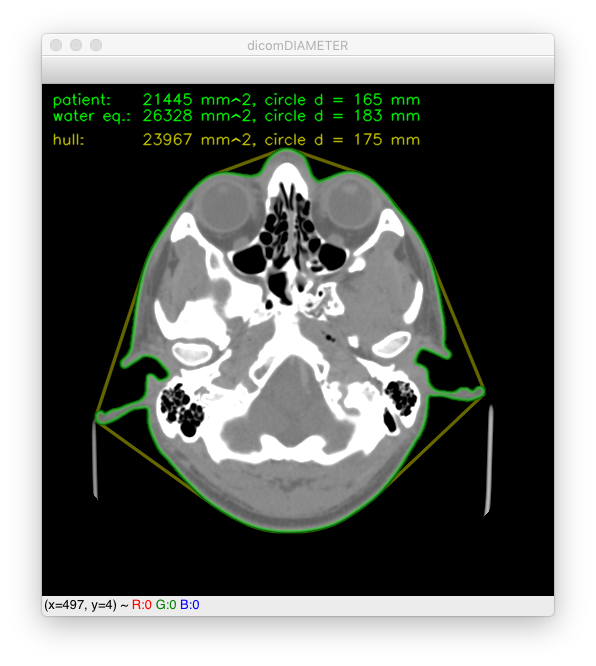
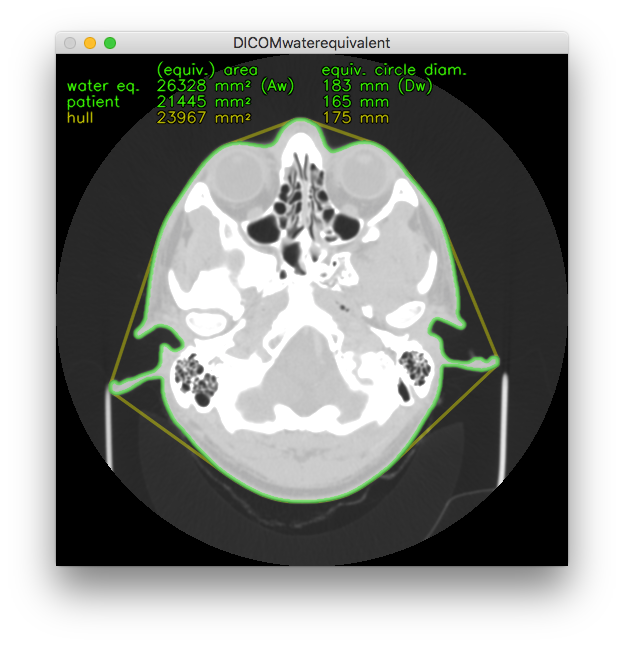
new image text overlay layout

diff --git a/DICOMwaterequivalent.py b/DICOMwaterequivalent.py
@@ -10,30 +10,7 @@
 #     calculating patient size and size-specific dose estimates (SSDE) in CT: The Report of
 #     AAPM Task Group 220. AAPM report. 2014 Sep;2014:6.
 #
-# Requirements:
-# cv2, numpy, pydicom (pip3 install opencv-python numpy pydicom)
-#
-# Usage:
-# >>> import DICOMwaterequivalent
-# >>> DICOMwaterequivalent(filename, threshold, window)
-#        filename:  DICOM file,
-#        threshold: ROI contour threshold level,
-#        window:    Optional, view window for output image, as tuple (ww,wl). No image will
-#                   be outputted if omitted.
-#
-#        example: DICOMwaterequivalent('in.dcm', -350, (1000,40))
-#
-# Returns:
-# Tuple containing:
-#   water equivalent area (Aw) in mm² (float),
-#   water equivalent diameter (Dw) in mm (float),
-#   ROI area in mm² (float),
-#   ROI equivalent circle diameter in mm (a circle with ROI area) (float),
-#   ROI hull area in mm² (float),
-#   ROI hull equivalent circle diameter in mm (float),
-#   result image displaying ROI and ROI hull contours (numpy array).
-#
-#   example: (24740.231323242188, 177.48307205659782, 27518.49097592727, 187.18341518945613, 25731.055450439453, 181.0022025481258, array([[[0, 0, 0], ... ]]], dtype=uint8)) )
+# Requirements and Usage: see README.md or https://github.com/cwverhey/DICOMwaterequivalent
 #
 # Copyright:
 # 2018 Caspar Verhey (caspar@verhey.net), MIT License (see LICENSE)
@@ -104,21 +81,52 @@ def DICOMwaterequivalent(dicom_filename, threshold, window = False):
         cv2.drawContours(overlay_img, [contour], -1, (0,255,0), 2, cv2.LINE_AA)
         cv2.addWeighted(overlay_img, 0.40, view_img, 1 - 0.40, 0, view_img)
         
-        # add text
-        cv2.putText(view_img, "patient:", (10,20), cv2.FONT_HERSHEY_SIMPLEX, 0.5, (0,0,0), 2, cv2.LINE_AA)
-        cv2.putText(view_img, "patient:", (10,20), cv2.FONT_HERSHEY_SIMPLEX, 0.5, (0,255,0), 1, cv2.LINE_AA)
-        cv2.putText(view_img, "{:.0f} mm^2, circle d = {:.0f} mm".format(area,equiv_circle_diam), (100,20), cv2.FONT_HERSHEY_SIMPLEX, 0.5, (0,0,0), 2, cv2.LINE_AA)
-        cv2.putText(view_img, "{:.0f} mm^2, circle d = {:.0f} mm".format(area,equiv_circle_diam), (100,20), cv2.FONT_HERSHEY_SIMPLEX, 0.5, (0,255,0), 1, cv2.LINE_AA)
-
-        cv2.putText(view_img, "water eq.:", (10,36), cv2.FONT_HERSHEY_SIMPLEX, 0.5, (0,0,0), 2, cv2.LINE_AA)
-        cv2.putText(view_img, "water eq.:", (10,36), cv2.FONT_HERSHEY_SIMPLEX, 0.5, (0,255,0), 1, cv2.LINE_AA)
-        cv2.putText(view_img, "{:.0f} mm^2, circle d = {:.0f} mm".format(water_equiv_area, water_equiv_circle_diam), (100,36), cv2.FONT_HERSHEY_SIMPLEX, 0.5, (0,0,0), 2, cv2.LINE_AA)
-        cv2.putText(view_img, "{:.0f} mm^2, circle d = {:.0f} mm".format(water_equiv_area, water_equiv_circle_diam), (100,36), cv2.FONT_HERSHEY_SIMPLEX, 0.5, (0,255,0), 1, cv2.LINE_AA)
-
-        cv2.putText(view_img, "hull:", (10,60), cv2.FONT_HERSHEY_SIMPLEX, 0.5, (0,0,0), 2, cv2.LINE_AA)
-        cv2.putText(view_img, "hull:", (10,60), cv2.FONT_HERSHEY_SIMPLEX, 0.5, (0,200,200), 1, cv2.LINE_AA)
-        cv2.putText(view_img, "{:.0f} mm^2, circle d = {:.0f} mm".format(hullarea, hullequiv), (100,60), cv2.FONT_HERSHEY_SIMPLEX, 0.5, (0,0,0), 2, cv2.LINE_AA)
-        cv2.putText(view_img, "{:.0f} mm^2, circle d = {:.0f} mm".format(hullarea, hullequiv), (100,60), cv2.FONT_HERSHEY_SIMPLEX, 0.5, (0,200,200), 1, cv2.LINE_AA)
+        # add text: first draw shade, then draw text over it
+        cv2.putText(view_img, "(equiv.) area", (100,20), cv2.FONT_HERSHEY_SIMPLEX, 0.5, (0,0,0), 2, cv2.LINE_AA)
+        cv2.putText(view_img, "(equiv.) area", (100,20), cv2.FONT_HERSHEY_SIMPLEX, 0.5, (0,255,0), 1, cv2.LINE_AA)
+        
+        cv2.putText(view_img, "equiv. circle diam.", (265,20), cv2.FONT_HERSHEY_SIMPLEX, 0.5, (0,0,0), 2, cv2.LINE_AA)
+        cv2.putText(view_img, "equiv. circle diam.", (265,20), cv2.FONT_HERSHEY_SIMPLEX, 0.5, (0,255,0), 1, cv2.LINE_AA)
+        
+        
+        cv2.putText(view_img, "water eq.", (10,36), cv2.FONT_HERSHEY_SIMPLEX, 0.5, (0,0,0), 2, cv2.LINE_AA)
+        cv2.putText(view_img, "water eq.", (10,36), cv2.FONT_HERSHEY_SIMPLEX, 0.5, (0,255,0), 1, cv2.LINE_AA)
+        
+        cv2.putText(view_img, "{:.0f} mm  (Aw)".format(water_equiv_area), (100,36), cv2.FONT_HERSHEY_SIMPLEX, 0.5, (0,0,0), 2, cv2.LINE_AA)
+        cv2.putText(view_img, "{:.0f} mm  (Aw)".format(water_equiv_area), (100,36), cv2.FONT_HERSHEY_SIMPLEX, 0.5, (0,255,0), 1, cv2.LINE_AA)
+        
+        cv2.putText(view_img, "2", (189,32), cv2.FONT_HERSHEY_SIMPLEX, 0.25, (0,0,0), 2, cv2.LINE_AA)
+        cv2.putText(view_img, "2", (189,32), cv2.FONT_HERSHEY_SIMPLEX, 0.25, (0,255,0), 1, cv2.LINE_AA)
+        
+        cv2.putText(view_img, "{:.0f} mm (Dw)".format(water_equiv_circle_diam), (265,36), cv2.FONT_HERSHEY_SIMPLEX, 0.5, (0,0,0), 2, cv2.LINE_AA)
+        cv2.putText(view_img, "{:.0f} mm (Dw)".format(water_equiv_circle_diam), (265,36), cv2.FONT_HERSHEY_SIMPLEX, 0.5, (0,255,0), 1, cv2.LINE_AA)
+        
+        
+        cv2.putText(view_img, "patient", (10,52), cv2.FONT_HERSHEY_SIMPLEX, 0.5, (0,0,0), 2, cv2.LINE_AA)
+        cv2.putText(view_img, "patient", (10,52), cv2.FONT_HERSHEY_SIMPLEX, 0.5, (0,255,0), 1, cv2.LINE_AA)
+        
+        cv2.putText(view_img, "{:.0f} mm".format(area), (100,52), cv2.FONT_HERSHEY_SIMPLEX, 0.5, (0,0,0), 2, cv2.LINE_AA)
+        cv2.putText(view_img, "{:.0f} mm".format(area), (100,52), cv2.FONT_HERSHEY_SIMPLEX, 0.5, (0,255,0), 1, cv2.LINE_AA)
+        
+        cv2.putText(view_img, "2", (189,49), cv2.FONT_HERSHEY_SIMPLEX, 0.25, (0,0,0), 2, cv2.LINE_AA)
+        cv2.putText(view_img, "2", (189,49), cv2.FONT_HERSHEY_SIMPLEX, 0.25, (0,255,0), 1, cv2.LINE_AA)
+        
+        cv2.putText(view_img, "{:.0f} mm".format(equiv_circle_diam), (265,52), cv2.FONT_HERSHEY_SIMPLEX, 0.5, (0,0,0), 2, cv2.LINE_AA)
+        cv2.putText(view_img, "{:.0f} mm".format(equiv_circle_diam), (265,52), cv2.FONT_HERSHEY_SIMPLEX, 0.5, (0,255,0), 1, cv2.LINE_AA)
+        
+        
+        cv2.putText(view_img, "hull", (10,68), cv2.FONT_HERSHEY_SIMPLEX, 0.5, (0,0,0), 2, cv2.LINE_AA)
+        cv2.putText(view_img, "hull", (10,68), cv2.FONT_HERSHEY_SIMPLEX, 0.5, (0,200,200), 1, cv2.LINE_AA)
+        
+        cv2.putText(view_img, "{:.0f} mm".format(hullarea), (100,68), cv2.FONT_HERSHEY_SIMPLEX, 0.5, (0,0,0), 2, cv2.LINE_AA)
+        cv2.putText(view_img, "{:.0f} mm".format(hullarea), (100,68), cv2.FONT_HERSHEY_SIMPLEX, 0.5, (0,200,200), 1, cv2.LINE_AA)
+        
+        cv2.putText(view_img, "2", (189,65), cv2.FONT_HERSHEY_SIMPLEX, 0.25, (0,0,0), 2, cv2.LINE_AA)
+        cv2.putText(view_img, "2", (189,65), cv2.FONT_HERSHEY_SIMPLEX, 0.25, (0,200,200), 1, cv2.LINE_AA)
+        
+        cv2.putText(view_img, "{:.0f} mm".format(hullequiv), (265,68), cv2.FONT_HERSHEY_SIMPLEX, 0.5, (0,0,0), 2, cv2.LINE_AA)
+        cv2.putText(view_img, "{:.0f} mm".format(hullequiv), (265,68), cv2.FONT_HERSHEY_SIMPLEX, 0.5, (0,200,200), 1, cv2.LINE_AA)
+        
     else:
         view_img = False
 
